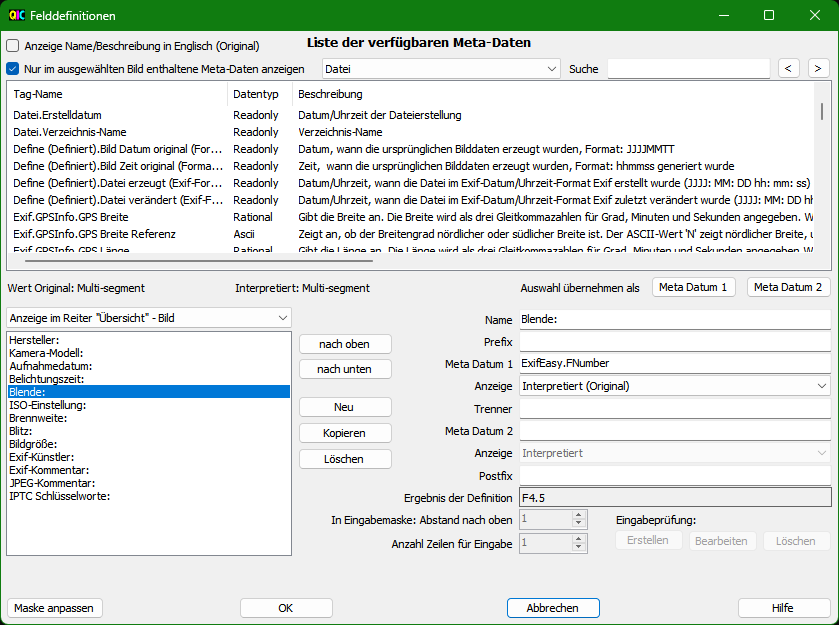
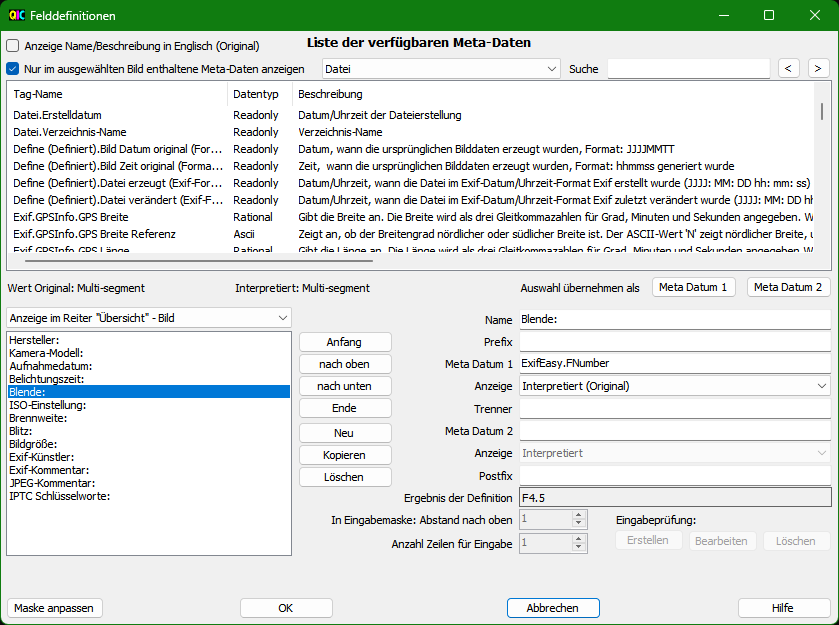
FormMetaDefinitions new move to beginning or end

Changed region(s): [[0.3409, 0.5168, 0.4648, 0.7904]]

diff --git a/QuickImageComment/Forms/FormMetaDataDefinition.Designer.cs b/QuickImageComment/Forms/FormMetaDataDefinition.Designer.cs
@@ -102,6 +102,8 @@ namespace QuickImageComment
             this.label17 = new System.Windows.Forms.Label();
             this.buttonInputCheckDelete = new System.Windows.Forms.Button();
             this.buttonInputCheckCreate = new System.Windows.Forms.Button();
+            this.buttonBeginning = new System.Windows.Forms.Button();
+            this.buttonEnd = new System.Windows.Forms.Button();
             ((System.ComponentModel.ISupportInitialize)(this.numericUpDownVerticalDisplayOffset)).BeginInit();
             ((System.ComponentModel.ISupportInitialize)(this.numericUpDownLinesForChange)).BeginInit();
             this.SuspendLayout();
@@ -187,7 +189,7 @@ namespace QuickImageComment
             // buttonUp
             // 
             this.buttonUp.Anchor = ((System.Windows.Forms.AnchorStyles)((System.Windows.Forms.AnchorStyles.Bottom | System.Windows.Forms.AnchorStyles.Left)));
-            this.buttonUp.Location = new System.Drawing.Point(297, 302);
+            this.buttonUp.Location = new System.Drawing.Point(297, 322);
             this.buttonUp.Name = "buttonUp";
             this.buttonUp.Size = new System.Drawing.Size(95, 22);
             this.buttonUp.TabIndex = 18;
@@ -198,7 +200,7 @@ namespace QuickImageComment
             // buttonDown
             // 
             this.buttonDown.Anchor = ((System.Windows.Forms.AnchorStyles)((System.Windows.Forms.AnchorStyles.Bottom | System.Windows.Forms.AnchorStyles.Left)));
-            this.buttonDown.Location = new System.Drawing.Point(297, 327);
+            this.buttonDown.Location = new System.Drawing.Point(297, 344);
             this.buttonDown.Name = "buttonDown";
             this.buttonDown.Size = new System.Drawing.Size(95, 22);
             this.buttonDown.TabIndex = 19;
@@ -209,7 +211,7 @@ namespace QuickImageComment
             // buttonNew
             // 
             this.buttonNew.Anchor = ((System.Windows.Forms.AnchorStyles)((System.Windows.Forms.AnchorStyles.Bottom | System.Windows.Forms.AnchorStyles.Left)));
-            this.buttonNew.Location = new System.Drawing.Point(297, 365);
+            this.buttonNew.Location = new System.Drawing.Point(297, 391);
             this.buttonNew.Name = "buttonNew";
             this.buttonNew.Size = new System.Drawing.Size(95, 22);
             this.buttonNew.TabIndex = 20;
@@ -421,7 +423,7 @@ namespace QuickImageComment
             // buttonCopy
             // 
             this.buttonCopy.Anchor = ((System.Windows.Forms.AnchorStyles)((System.Windows.Forms.AnchorStyles.Bottom | System.Windows.Forms.AnchorStyles.Left)));
-            this.buttonCopy.Location = new System.Drawing.Point(297, 391);
+            this.buttonCopy.Location = new System.Drawing.Point(297, 413);
             this.buttonCopy.Name = "buttonCopy";
             this.buttonCopy.Size = new System.Drawing.Size(95, 22);
             this.buttonCopy.TabIndex = 21;
@@ -432,7 +434,7 @@ namespace QuickImageComment
             // buttonDelete
             // 
             this.buttonDelete.Anchor = ((System.Windows.Forms.AnchorStyles)((System.Windows.Forms.AnchorStyles.Bottom | System.Windows.Forms.AnchorStyles.Left)));
-            this.buttonDelete.Location = new System.Drawing.Point(297, 417);
+            this.buttonDelete.Location = new System.Drawing.Point(297, 435);
             this.buttonDelete.Name = "buttonDelete";
             this.buttonDelete.Size = new System.Drawing.Size(95, 22);
             this.buttonDelete.TabIndex = 22;
@@ -727,11 +729,35 @@ namespace QuickImageComment
             this.buttonInputCheckCreate.UseVisualStyleBackColor = true;
             this.buttonInputCheckCreate.Click += new System.EventHandler(this.buttonInputCheckCreate_Click);
             // 
+            // buttonBeginning
+            // 
+            this.buttonBeginning.Anchor = ((System.Windows.Forms.AnchorStyles)((System.Windows.Forms.AnchorStyles.Bottom | System.Windows.Forms.AnchorStyles.Left)));
+            this.buttonBeginning.Location = new System.Drawing.Point(297, 300);
+            this.buttonBeginning.Name = "buttonBeginning";
+            this.buttonBeginning.Size = new System.Drawing.Size(95, 22);
+            this.buttonBeginning.TabIndex = 56;
+            this.buttonBeginning.Text = "Anfang";
+            this.buttonBeginning.UseVisualStyleBackColor = true;
+            this.buttonBeginning.Click += new System.EventHandler(this.buttonBeginning_Click);
+            // 
+            // buttonEnd
+            // 
+            this.buttonEnd.Anchor = ((System.Windows.Forms.AnchorStyles)((System.Windows.Forms.AnchorStyles.Bottom | System.Windows.Forms.AnchorStyles.Left)));
+            this.buttonEnd.Location = new System.Drawing.Point(297, 366);
+            this.buttonEnd.Name = "buttonEnd";
+            this.buttonEnd.Size = new System.Drawing.Size(95, 22);
+            this.buttonEnd.TabIndex = 57;
+            this.buttonEnd.Text = "Ende";
+            this.buttonEnd.UseVisualStyleBackColor = true;
+            this.buttonEnd.Click += new System.EventHandler(this.buttonEnd_Click);
+            // 
             // FormMetaDataDefinition
             // 
             this.AutoScaleDimensions = new System.Drawing.SizeF(6F, 13F);
             this.AutoScaleMode = System.Windows.Forms.AutoScaleMode.Font;
             this.ClientSize = new System.Drawing.Size(837, 593);
+            this.Controls.Add(this.buttonEnd);
+            this.Controls.Add(this.buttonBeginning);
             this.Controls.Add(this.buttonInputCheckCreate);
             this.Controls.Add(this.buttonInputCheckDelete);
             this.Controls.Add(this.label17);
@@ -860,5 +886,7 @@ namespace QuickImageComment
         private System.Windows.Forms.Label label17;
         private System.Windows.Forms.Button buttonInputCheckDelete;
         private System.Windows.Forms.Button buttonInputCheckCreate;
+        private System.Windows.Forms.Button buttonBeginning;
+        private System.Windows.Forms.Button buttonEnd;
     }
 }

diff --git a/QuickImageComment/Forms/FormMetaDataDefinition.cs b/QuickImageComment/Forms/FormMetaDataDefinition.cs
@@ -453,6 +453,8 @@ namespace QuickImageComment
                     this.buttonUp.Enabled = listBoxMetaData.SelectedIndex > 0;
                     this.buttonDown.Enabled = (listBoxMetaData.SelectedIndex >= 0 &&
                                                listBoxMetaData.SelectedIndex < listBoxMetaData.Items.Count - 1);
+                    this.buttonBeginning.Enabled = this.buttonUp.Enabled;
+                    this.buttonEnd.Enabled = this.buttonDown.Enabled;
 
                     updateDisplayAfterDefinitionChange(theMetaDataDefinitionItem, false);
 
@@ -859,6 +861,24 @@ namespace QuickImageComment
             assignMetaData(textBoxMetaDatum2);
         }
 
+        // move to the beginning pressed
+        private void buttonBeginning_Click(object sender, EventArgs e)
+        {
+            // no check if entered meta definitions is ok when selected index is changed
+            noCheckEnteredMetaDefinitionIsOk = true;
+            while (listBoxMetaData.SelectedIndex > 0)
+            {
+                int index = listBoxMetaData.SelectedIndex;
+                MetaDataDefinitionItem MetaDataDefinitionItemForCopy = (MetaDataDefinitionItem)MetaDataDefinitionsWork[index];
+                MetaDataDefinitionsWork[index] = MetaDataDefinitionsWork[index - 1];
+                MetaDataDefinitionsWork[index - 1] = MetaDataDefinitionItemForCopy;
+                this.listBoxMetaData.SelectedIndex = index - 1;
+            }
+            fillListBoxMetaData();
+            this.listBoxMetaData.SelectedIndex = 0;
+            noCheckEnteredMetaDefinitionIsOk = false;
+        }
+
         // move up pressed
         private void buttonUp_Click(object sender, EventArgs e)
         {
@@ -874,6 +894,8 @@ namespace QuickImageComment
                 this.listBoxMetaData.SelectedIndex = index - 1;
             }
             noCheckEnteredMetaDefinitionIsOk = false;
+            // during change listBoxMetaData, button looses focus
+            ((Button)sender).Select();
         }
 
         // move down pressed
@@ -891,6 +913,27 @@ namespace QuickImageComment
                 fillListBoxMetaData();
                 this.listBoxMetaData.SelectedIndex = index + 1;
             }
+            noCheckEnteredMetaDefinitionIsOk = false;
+            // during change listBoxMetaData, button looses focus
+            ((Button)sender).Select();
+        }
+
+        // move to the end pressed
+        private void buttonEnd_Click(object sender, EventArgs e)
+        {
+            // no check if entered meta definitions is ok when selected index is changed
+            noCheckEnteredMetaDefinitionIsOk = true;
+            while (listBoxMetaData.SelectedIndex >= 0 &&
+                listBoxMetaData.SelectedIndex < listBoxMetaData.Items.Count - 1)
+            {
+                int index = listBoxMetaData.SelectedIndex;
+                MetaDataDefinitionItem MetaDataDefinitionItemForCopy = (MetaDataDefinitionItem)MetaDataDefinitionsWork[index];
+                MetaDataDefinitionsWork[index] = MetaDataDefinitionsWork[index + 1];
+                MetaDataDefinitionsWork[index + 1] = MetaDataDefinitionItemForCopy;
+                this.listBoxMetaData.SelectedIndex = index + 1;
+            }
+            fillListBoxMetaData();
+            listBoxMetaData.SelectedIndex = listBoxMetaData.Items.Count - 1;
             noCheckEnteredMetaDefinitionIsOk = false;
         }
 
@@ -1112,6 +1155,8 @@ namespace QuickImageComment
             }
             this.buttonUp.Enabled = false;
             this.buttonDown.Enabled = false;
+            this.buttonBeginning.Enabled = false;
+            this.buttonEnd.Enabled  = false;
         }
 
         // create a deep copy of meta data definitions
@@ -1157,6 +1202,8 @@ namespace QuickImageComment
 
             this.buttonUp.Enabled = false;
             this.buttonDown.Enabled = false;
+            this.buttonBeginning.Enabled = false;
+            this.buttonEnd.Enabled = false;
         }
 
         private void updateDisplayAfterDefinitionChange(MetaDataDefinitionItem theMetaDataDefinitionItem, bool enableChecks)
